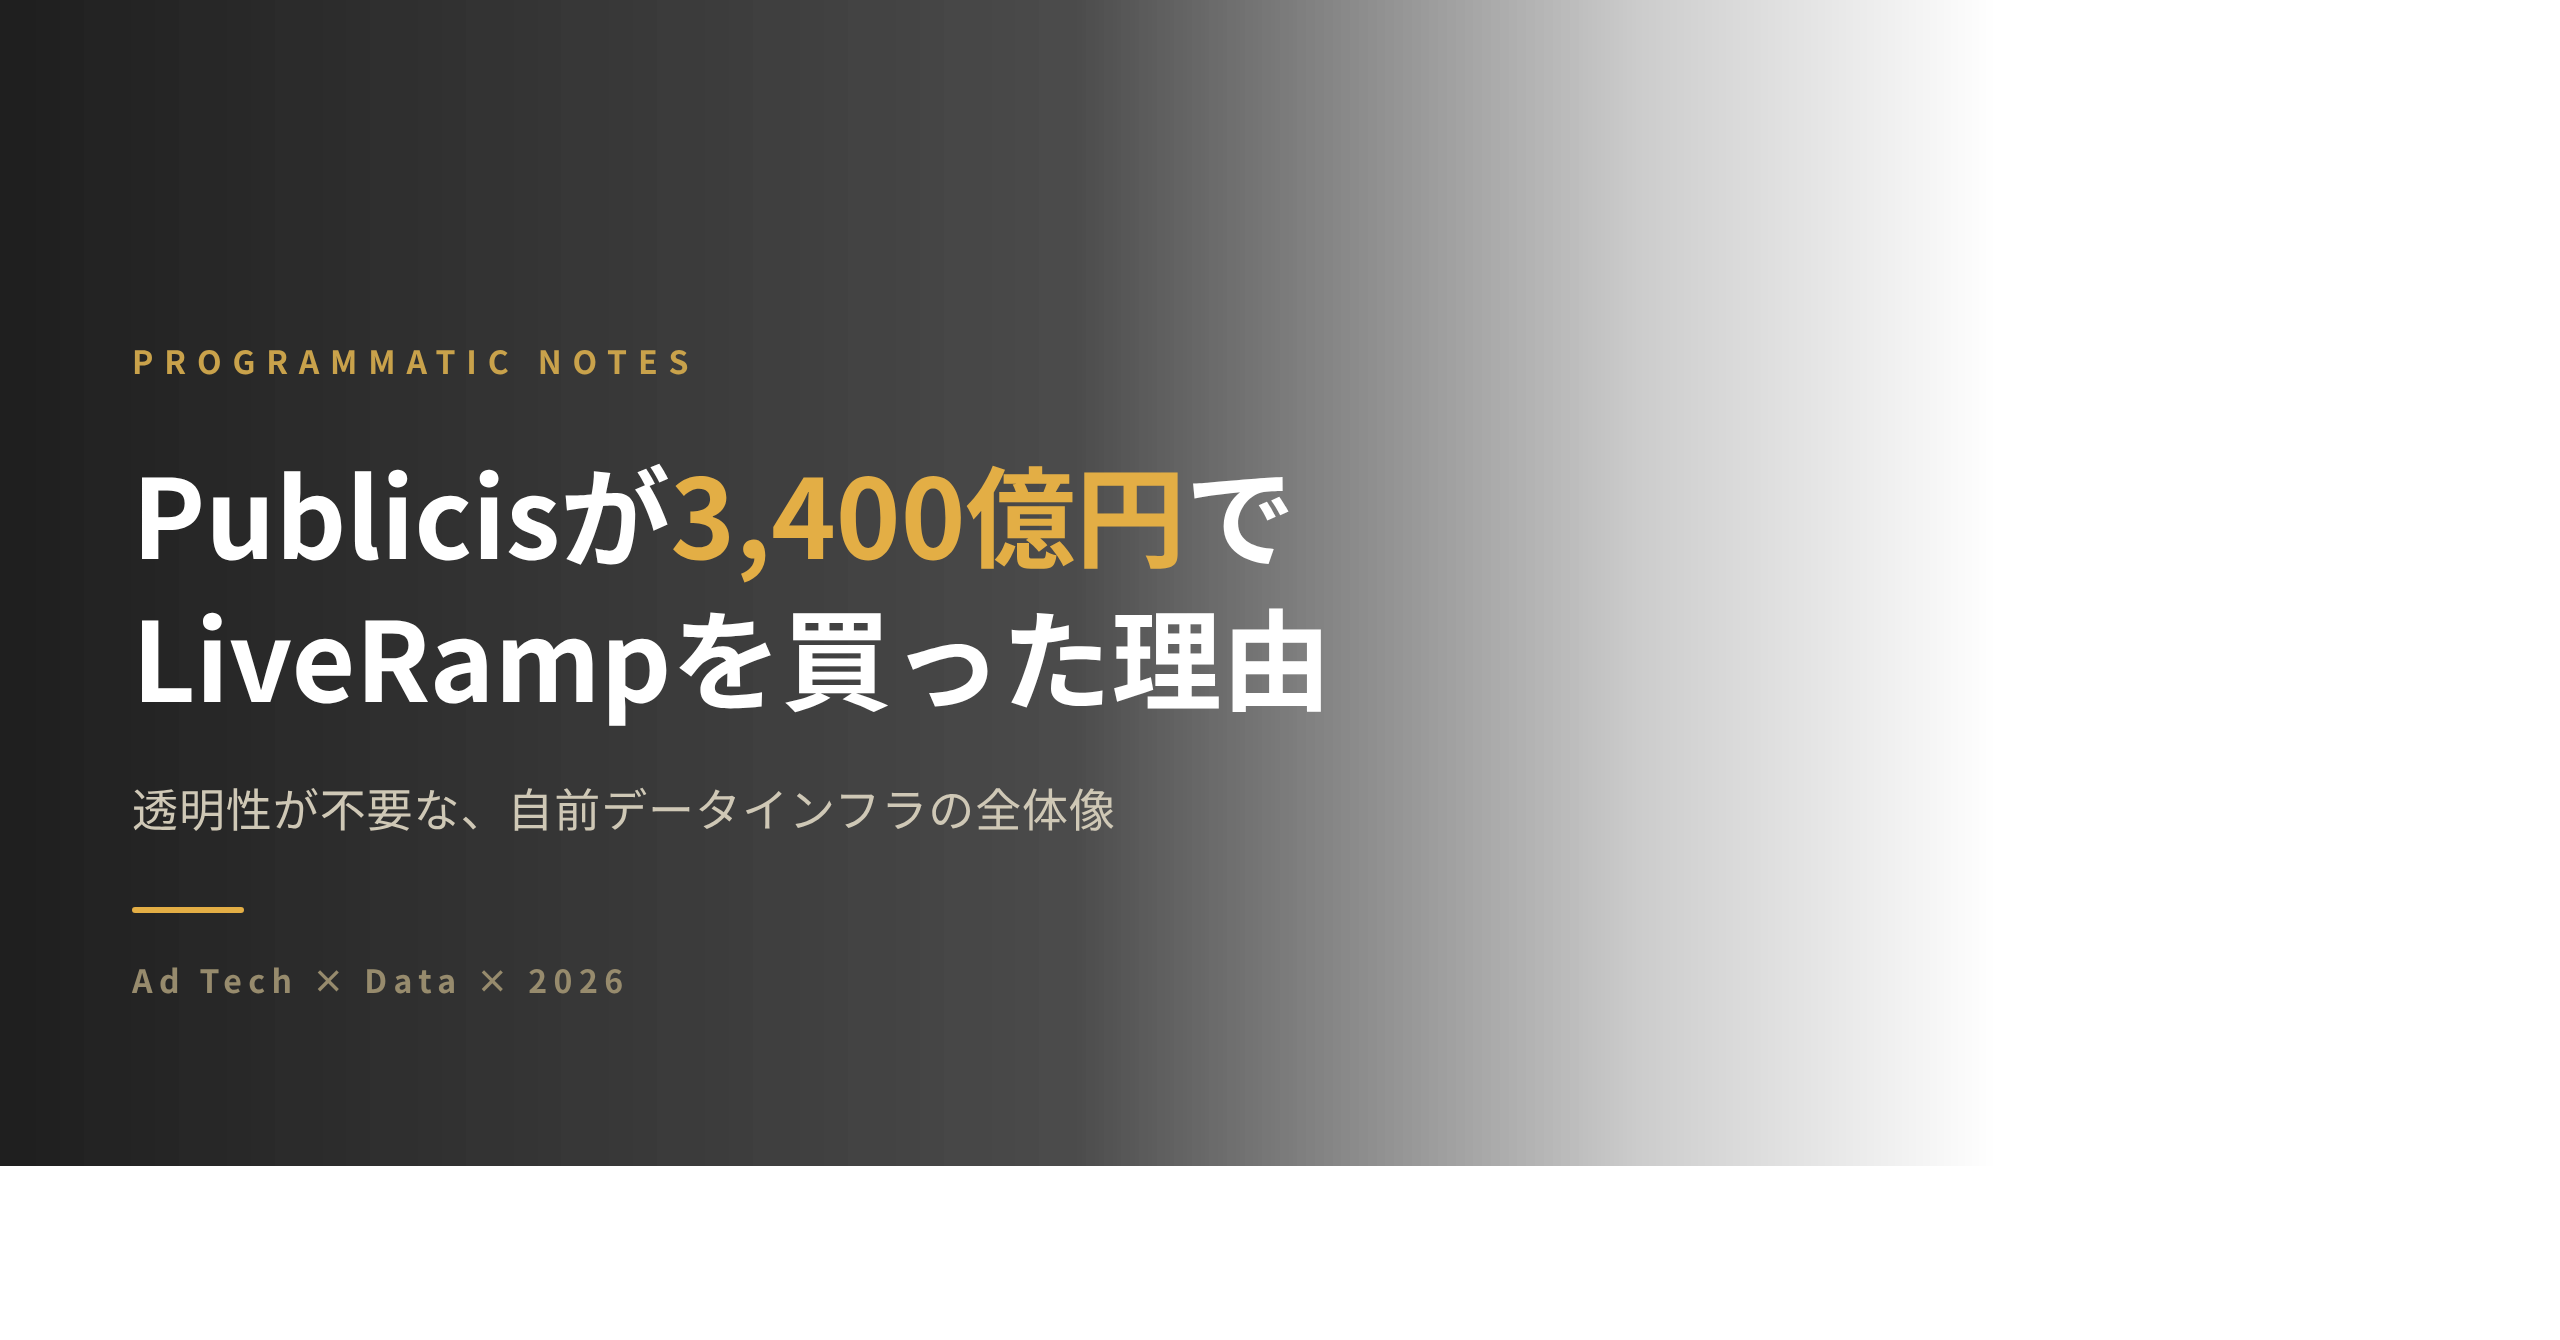
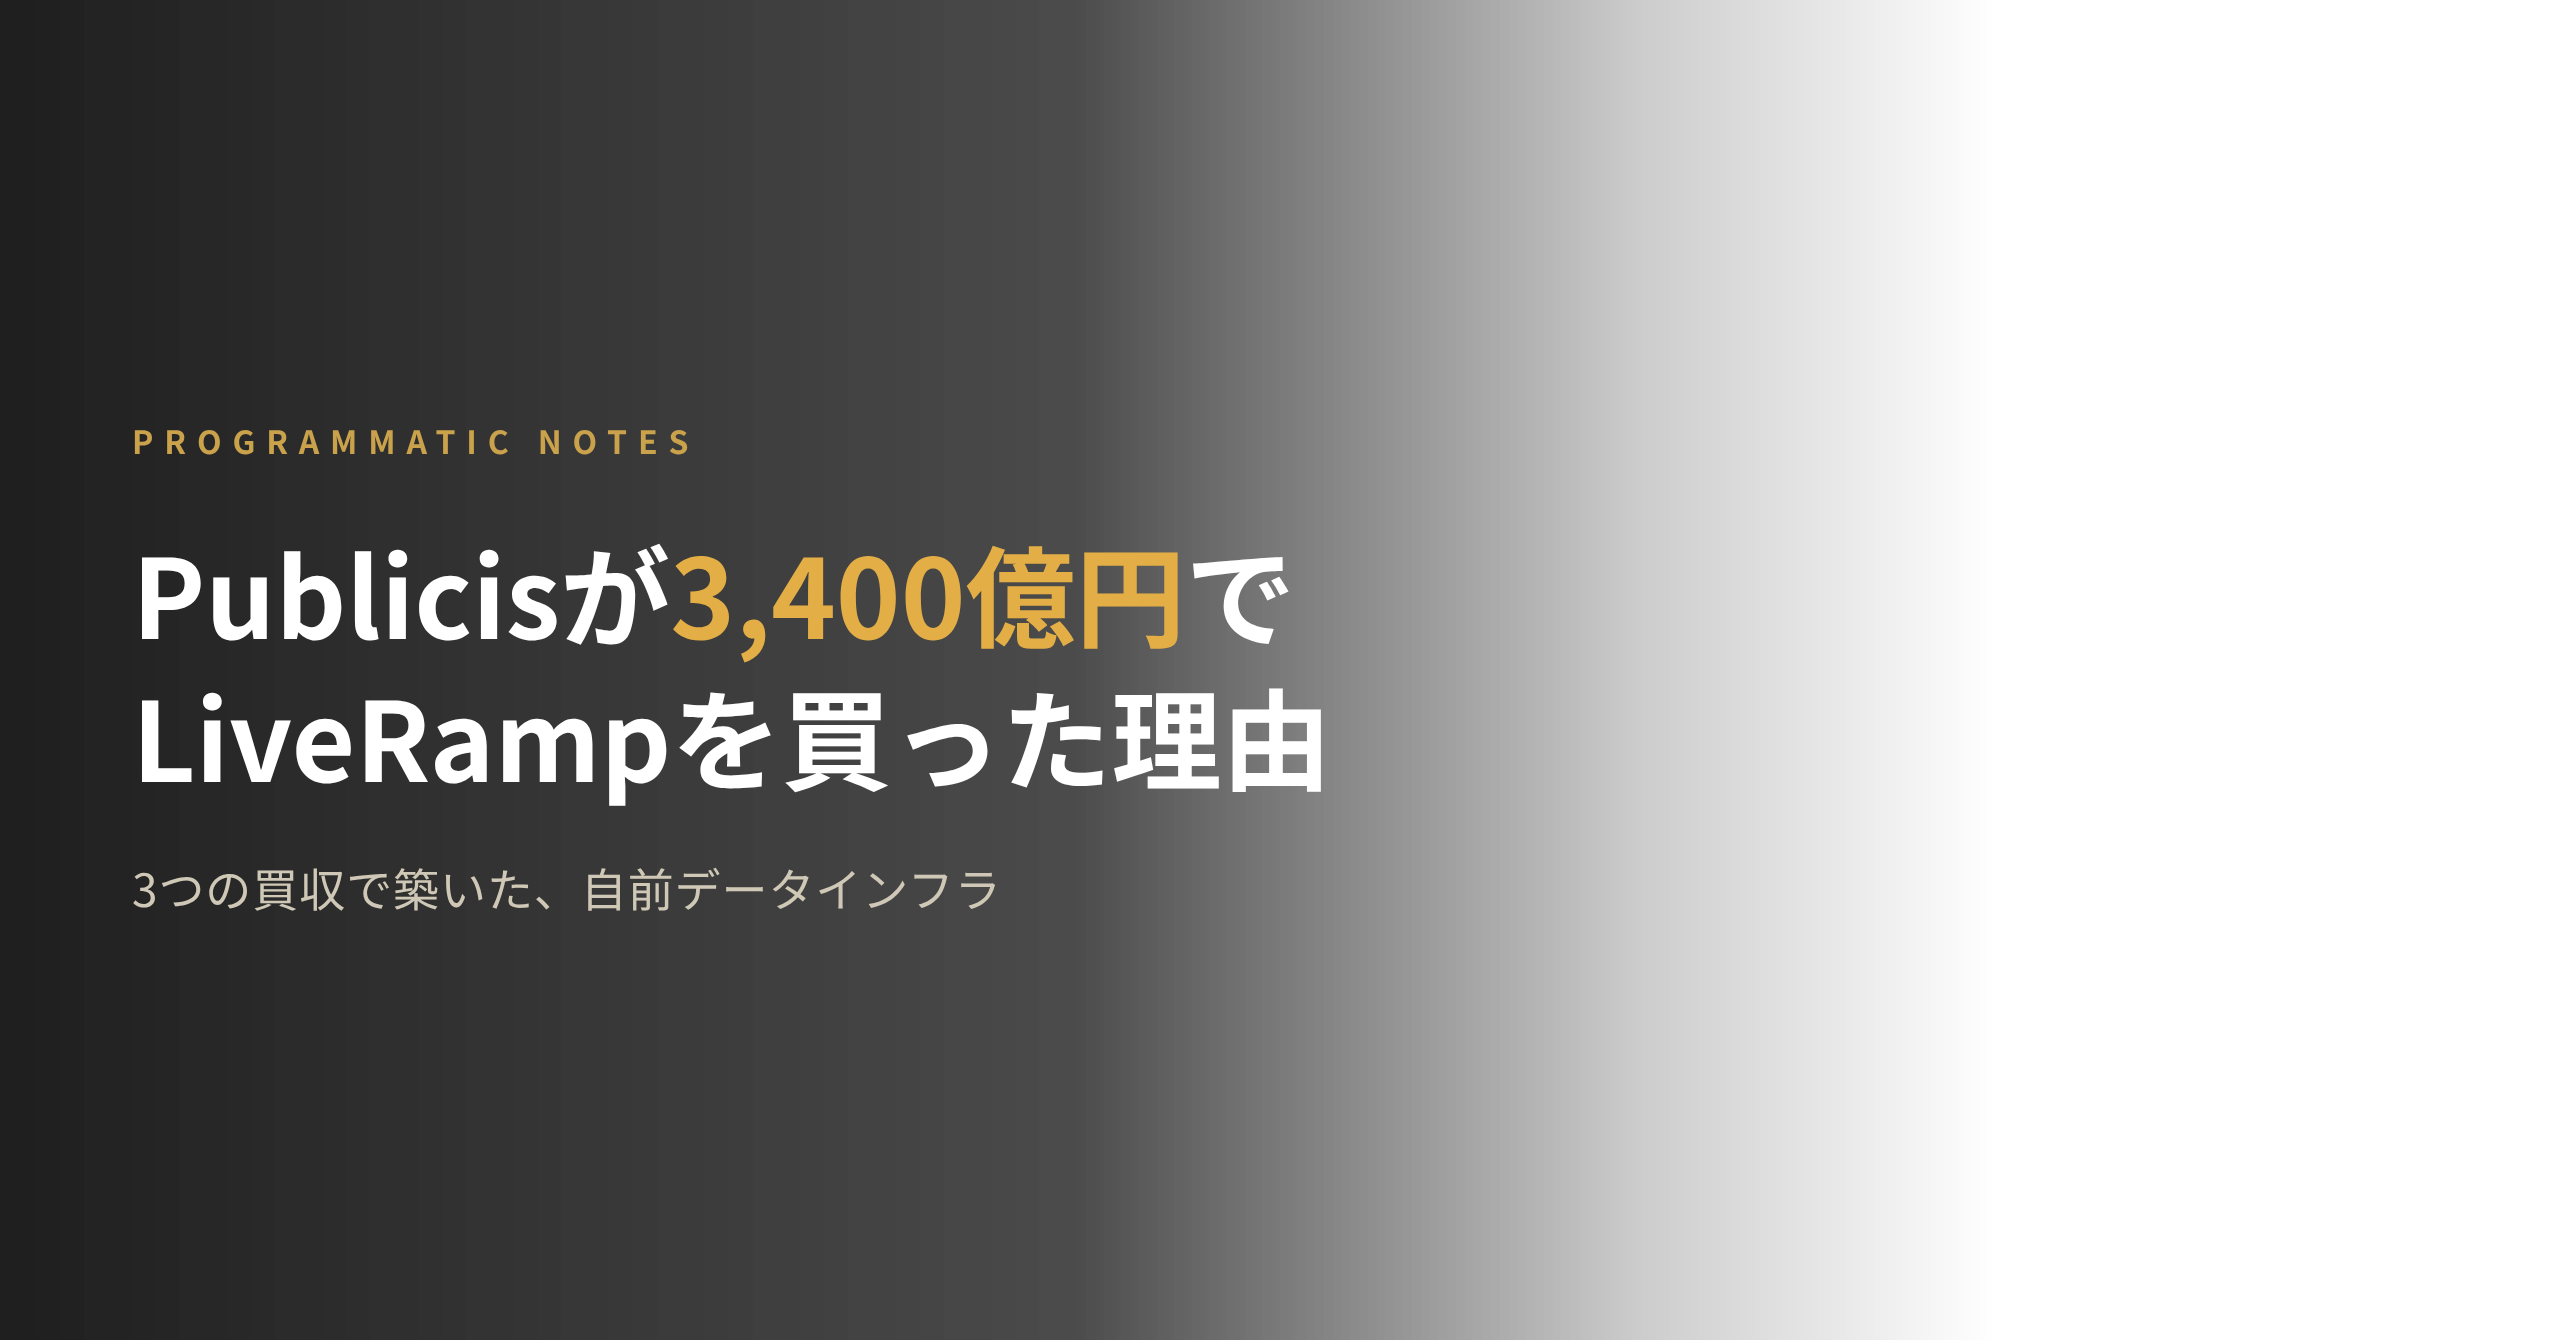
fix(creative): サムネテキスト層を修正(白帯解消・線とタグ削除・サブタイトル変更)
下部白帯(body実高クリップ)を広window+クロップで解消。ルール線と
Ad Techタグを削除。サブタイトルを唐突な数字なしの文言に差し替え。

https://claude.ai/code/session_016LWofVZkPJ64zjANCZM9Yj

diff --git a/strategy/programmatic-notes/publicis-liveramp/text-layer.html b/strategy/programmatic-notes/publicis-liveramp/text-layer.html
@@ -5,10 +5,10 @@
 <title>Publicis LiveRamp text layer</title>
 <style>
   * { margin: 0; padding: 0; box-sizing: border-box; }
-  html, body { width: 1280px; height: 670px; overflow: hidden; background: transparent; }
   body { font-family: "Noto Sans CJK JP", sans-serif; position: relative; }
-  .scrim {
-    position: absolute; inset: 0;
+  .bg {
+    position: absolute; top: 0; left: 0;
+    width: 1280px; height: 670px;
     background: linear-gradient(90deg,
       rgba(0,0,0,0.88) 0%, rgba(0,0,0,0.70) 42%, rgba(0,0,0,0.20) 64%, rgba(0,0,0,0) 78%);
   }
@@ -31,25 +31,17 @@
     margin-top: 24px; font-size: 23px; font-weight: 500;
     line-height: 1.5; color: #cfc8b6; letter-spacing: 0.02em;
   }
-  .rule { margin-top: 32px; width: 56px; height: 3px;
-    background: #e3ae45; border-radius: 2px; }
-  .tag {
-    margin-top: 22px; font-size: 16px; font-weight: 600;
-    letter-spacing: 0.2em; color: #978b6d;
-  }
 </style>
 </head>
 <body>
-  <div class="scrim"></div>
+  <div class="bg"></div>
   <div class="content">
     <div class="eyebrow">PROGRAMMATIC NOTES</div>
     <div class="title">
       Publicisが<span class="accent">3,400億円</span>で<br>
       LiveRampを買った理由
     </div>
-    <div class="subtitle">透明性が不要な、自前データインフラの全体像</div>
-    <div class="rule"></div>
-    <div class="tag">Ad Tech &#215; Data &#215; 2026</div>
+    <div class="subtitle">3つの買収で築いた、自前データインフラ</div>
   </div>
 </body>
 </html>